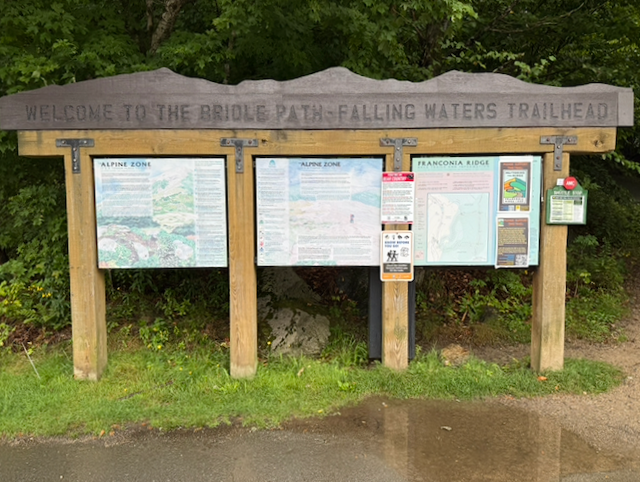
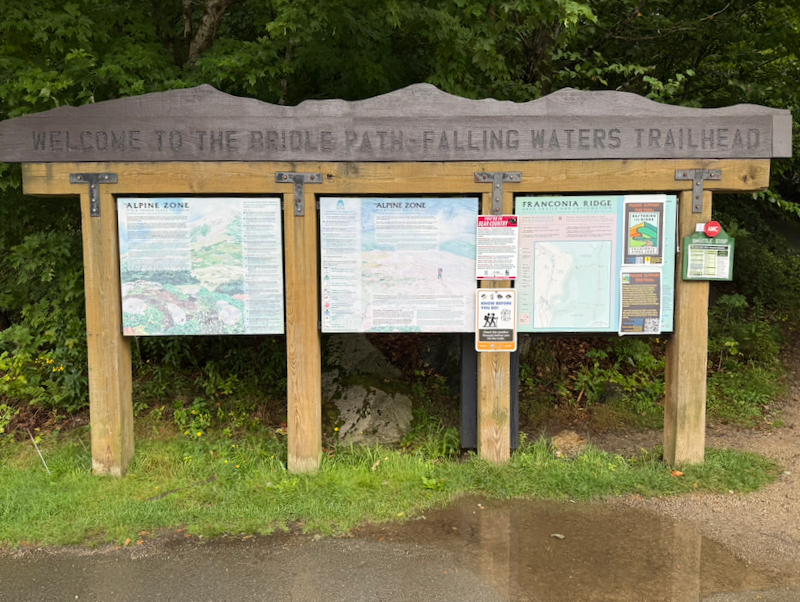
revise posts
Revise posts about trip to the White Mountains, adding photos and text
for day two.

diff --git a/_posts/2026-08-24-white-mountains-2026-day-two.md b/_posts/2026-08-24-white-mountains-2026-day-two.md
@@ -7,12 +7,157 @@ categories: [Camping]
 media_subpath: /assets/img/2026-08-24/
 ---
 
-Monday, August 24, 2026, was the second of six days of camping at Lafayette
-Place Campground in Franconia Notch State Park in the White Mountains of New
-Hampshire.
+Monday, August 24, 2026, was the second of six days of camping at
+[Lafayette Place Campground](https://www.nhstateparks.org/find-parks-trails/lafayette-place-campground-at-franconia-notch-stat)
+in
+[Franconia Notch State Park](https://www.nhstateparks.org/find-parks-trails/franconia-notch-state-park)
+in the
+[White Mountains](https://www.visitwhitemountains.com/)
+in New Hampshire. Today my plan was to join a short nature hike, ride the Cog
+Railroad to the top of Mt. Washington, and ride my bicycle on the recreation
+path.
 
 For the previous day of this six-day camping trip, see
 [White Mountains 2026, Day One]( {% link _posts/2026-08-23-white-mountains-2026-day-one.md %} ).
+
+## Lafayette Place Campground
+
+Noisy and inconsiderate neighbors in a nearby campsite woke me up at about
+midnight, but my noise-canceling headphones eliminated that problem. I had
+brought these and earplugs to deal with traffic noise from nearby I-93, but I
+discovered that the traffic noise was not bothering me as much as the noisy
+neighbors. Since I was awake, I crawled out of my tent to check the sky. I had a
+good view to the north and west, and I could see the bright stars of Cassiopeia,
+Cygnus, and Lyra (with Vega); but low moonlight in the southeast washed out the
+dimmer stars.
+
+After a good sleep, I got up at 6:00 a.m. and remembered to take a photo of my
+campsite. My Zipcar was parked to the left, out of the photo. The site was
+much larger than I needed.
+
+![My Campsite at Lafayette Place Campground](campsite.png){:width="800" height="600" }_My Campsite at Lafayette Place Campground_
+
+The day was bright and sunny, and I had a good view of Cannon Mountain to the
+northwest.
+
+![A View of Cannon Mountain from the Playground at Lafayette Place Campground](cannon_mountain.png){:width="800" height="600" }_A View of Cannon Mountain from the Playground at Lafayette Place Campground_
+
+## AMC Highland Center
+
+After cooking and eating a breakfast of muesli and granola with hot cocoa, I
+left at 7:40 a.m. to drive to
+[AMC Highland Center](https://www.outdoors.org/destinations/new-hampshire/highland-center/).
+I had to drive south on I-93 to reverse direction at U.S. Route 3 near Lincoln,
+then looping around from the north on Route 302, arriving very early at about 8:20
+a.m. before the nature hike scheduled at 9:00 a.m.
+
+<iframe src="https://ridewithgps.com/embeds?type=trip&id=411809374&sampleGraph=true&privacyCode=IQaTHP43dxFPYmIOzezNRCahR0WKK6l5" style="width: 1px; min-width: 100%; height: 700px; border: none;" scrolling="no"></iframe>
+
+While waiting, I explored the grounds of the AMC Highland Center.
+
+![AMC Highland Center](amc_highland_center.png){:width="800" height="601" }_AMC Highland Center_
+
+![Crawford Notch, with Saco Lake and Elephant Head in the Foreground](crawford_notch.png){:width="800" height="600" }_Crawford Notch, with Saco Lake and Elephant Head in the Foreground_
+
+## Elephant Head Nature Walk
+
+As for the nature walk, I turned out to be the only person who had registered.
+My guide was Mary, who was working full time at AMC during the summer before
+going to graduate school in the fall. We walked southeast on Crawford Notch Road
+from the Highland Center to the Webster-Jackson Trailhead just past Saco Lake.
+We followed that trail past the lake and branched right on the spur to Elephant
+Head.
+
+<iframe src="https://ridewithgps.com/embeds?type=trip&id=411914735&sampleGraph=true&privacyCode=wNCV2WJwB14p9zcRdCVy9OaUPGHfAell" style="width: 1px; min-width: 100%; height: 700px; border: none;" scrolling="no"></iframe>
+
+During our walk, Mary showed me four kinds of maple, including
+[sugar maple](https://en.wikipedia.org/wiki/Acer_saccharum) and
+[red maple](https://en.wikipedia.org/wiki/Acer_rubrum);
+[hobblebush](https://nhaudubon.org/plant-profile-hobblebush/), which grows
+close to the ground and trips unwary hikers. Mary's sharp eyes spotted a tiny
+frog next to the trail and many kinds of fungi. We had a close look at
+American beech trees infected with
+[beech bark disease](https://en.wikipedia.org/wiki/Beech_bark_disease).
+
+We climbed about 200 feet to the top of Elephant Head, where there was a good
+view north.
+
+![Saco Lake, AMC Highland Center, and Mt. Washington Hotel and Resort Viewed from Elephant Head](amc_highland_center_view_from_elephant_head.png){:width="800" height="601" }_Saco Lake, AMC Highland Center, and Mt. Washington Hotel and Resort Viewed from Elephant Head_
+
+## Cog Railroad to Mt. Washington Summit
+
+I drove north on U.S. Route 302 to Base Station Road, which took me to
+Marshfield Station of the [Cog Railroad](https://www.thecog.com/), which
+climbs to the top of Mt. Washington.
+
+<iframe src="https://ridewithgps.com/embeds?type=trip&id=411924170&sampleGraph=true&privacyCode=ejsrIUEQbNQbOEpbz5rYbtLzOmUYvnRr" style="width: 1px; min-width: 100%; height: 700px; border: none;" scrolling="no"></iframe>
+
+![The Cog Railroad's Marshfield Station with Mt. Washington in the Background](marshfield_station.png){:width="800" height="600" }_The Cog Railroad's Marshfield Station with Mt. Washington in the Background_
+
+![The Path of the Cog Railroad Up Mt. Washington](path_of_cog_railroad.png){:width="600" height="800" }_The Path of the Cog Railroad Up Mt. Washington_
+
+![Cog Railroad Diesel Engine](cog_railroad_diesel_engine.png){:width="800" height="501" }_Cog Railroad Diesel Engine_
+
+The Gloucester, Massachusetts, Student Band was present on a field trip, and
+they played their instruments at the bottom, during their train ride, and at the
+top of Mt. Washington (where, among other tunes, they played "Top of the
+World").
+
+![Gloucester, Massachusetts, Student Band](gloucester_student_band.png){:width="800" height="317" }_Gloucester, Massachusetts, Student Band_
+
+![Boarding the Carriages](boarding_the_carriages.png){:width="800" height="487" }_Boarding the Carriages_
+
+I rode the train that departed at noon. We climbed 3,500 feet in 2.8 miles, a
+steep climb with an average grade of 24%. The diesel engines are very powerful,
+and the cogs, of course, hold the engine on the track to prevent it from sliding
+down the rails.
+
+<iframe src="https://ridewithgps.com/embeds?type=trip&id=411928167&sampleGraph=true&privacyCode=4AmLjcoenkaEcBhFKutbfT78AAUm1a2D" style="width: 1px; min-width: 100%; height: 700px; border: none;" scrolling="no"></iframe>
+
+![Carriage Interior](carriage_interior.png){:width="800" height="600" }_Carriage Interior_
+
+Mt. Washington Observatory: https://mountwashington.org/
+
+Several photos. Schist with mica in the rocks at the top, not granite.
+The backs of the train seats are reversible so you always face in the direction the train is traveling. Back at the base station at about 2:00 p.m.
+
+I drove back to the campground. https://ridewithgps.com/routes/57071895
+
+## Franconia Notch Recreation Path
+
+In the late afternoon, I rode my bike north on the Franconia Notch Recreation
+Path.
+
+<iframe src="https://ridewithgps.com/embeds?type=trip&id=411812367&sampleGraph=true&privacyCode=YgqG2kkI0JcFFPIL8vks2JMWJryoA2o6" style="width: 1px; min-width: 100%; height: 700px; border: none;" scrolling="no"></iframe>
+
+As with riding the the southern section, which I had ridden the day before, the
+northern section was also very challenging with a few extremely steep hills and
+some rough surface. The lowest gear on my Trek Valencia is 18 gear inches, which
+was barely sufficient for me to climb the steepest hill.
+
+This description from a twelve-year-old video of riding the recreation path,
+[Franconia Notch Bike Trail Virtual Cycling Bike Training](https://www.youtube.com/watch?v=SlBRrSOKCX0),
+describes the trail succinctly and humorously:
+
+> Speed varies greatly due to the nature of the trail, basically the complete
+> opposite of a rail trail. I think if you go up a little further north there
+> might even be a vertical loop like in the old Hot Wheels tracks.
+
+I turned around when I reached an old auto bridge over a stream, with barriers
+blocking automobile drivers but not bicyclists or hikers. I lacked a good map
+and a cell phone signal, and I was disoriented and not sure where I was when I
+turned around. The bridge seemed like a possible remnant of old U.S. Route 3
+that had been replaced by the newer I-93 route.
+
+When I had access to a good map a couple of days later, I learned that the
+bridge crosses Lafayette Brook and that the Franconia Notch Recreation Trail
+continues for a few more miles northward. I also discovered later that there was
+a good cell phone signal at the bridge. And the parking lot near the bridge is
+accessed from an exit from northbound I-93 and is located at the trailhead of
+Franconia Snomo, a snowmobile trail.
+
+I returned to the campground by 5:30 p.m. I did a little walking around the
+campground, made dinner, cleaned up, and was in bed at dark, 8:00 p.m.
 
 For the third day of this six-day camping trip, see
 [White Mountains 2026, Day Three]( {% link _posts/2026-08-25-white-mountains-2026-day-three.md %} ).

diff --git a/_posts/2026-08-23-white-mountains-2026-day-one.md b/_posts/2026-08-23-white-mountains-2026-day-one.md
@@ -13,7 +13,11 @@ in
 [Franconia Notch State Park](https://www.nhstateparks.org/find-parks-trails/franconia-notch-state-park)
 in the
 [White Mountains](https://www.visitwhitemountains.com/)
-in New Hampshire. This was my first trip to the White Mountains after living in
+in New Hampshire.
+
+## Preparations
+
+This was my first trip to the White Mountains after living in
 New England for twenty-five years. My plan was to ride my bike, ride two trains,
 and do a little hiking.
 
@@ -23,11 +27,6 @@ My campsite cost me only $35 per night. For late August, campsites were sold
 out on Friday and Saturday nights, but availability was good for Sunday through
 Thursday nights.
 
-The drive was not complicated: Get on I-93 in Somerville, Massachusetts, and
-drive north to Lafayette Place Campground.
-
-<iframe src="https://ridewithgps.com/embeds?type=trip&id=411646657&sampleGraph=true&privacyCode=dDy6isJPYJ8ZXRkMr07PzC24qYV2C1wA" style="width: 1px; min-width: 100%; height: 700px; border: none;" scrolling="no"></iframe>
-
 I rented a Zipcar for the six days at a cost of about $700 (gas and insurance
 included). I folded down the rear seats and put my Trek Valencia hybrid
 bicycle in the back after removing the front rack and pedals. I should have
@@ -36,10 +35,16 @@ car.
 
 I packed my camping equipment that I use for bicycle touring, including my bear
 canister. Instead of freeze-dried meals, which are much lighter when hiking or
-touring, I brought cans of tuna fish, chicken, and Progresso soup to eat for
-dinners.
+touring, I brought cans of tuna fish and Progresso soup to eat for dinners.
 
-After packing the car, I left at noon. There was some heavy rain on the drive
+## The Drive
+
+The drive was not complicated: I got on I-93 in Somerville, Massachusetts, and
+drove north on the interstate to Lafayette Place Campground.
+
+<iframe src="https://ridewithgps.com/embeds?type=trip&id=411646657&sampleGraph=true&privacyCode=dDy6isJPYJ8ZXRkMr07PzC24qYV2C1wA" style="width: 1px; min-width: 100%; height: 700px; border: none;" scrolling="no"></iframe>
+
+I left at noon. There was some heavy rain on the drive
 north on I-93, making driving unsafe near Manchester and Concord, where many
 drivers did not reduce their speed even with poor visibility and a lot of
 water on the road. I stayed in the right hand lane as much as possible.
@@ -57,6 +62,10 @@ I had to drive past Lafayette Place Campground on I-93 because there is no
 exit when going northbound. I reversed direction a few miles north and drove
 back south to the exit. My total driving distance was about 146 miles.
 
+I arrived after three hours at 3:00 p.m.
+
+## Lafayette Place Campground
+
 I set up my campsite and walked around the campground.
 The campground was clean and well-maintained, and it was about two-thirds
 full. It is located close to I-93, so it suffers from traffic noise. There are
@@ -70,7 +79,7 @@ Franconia Notch.
 
 ![Tunnel Under I-93 at Lafayette Place Campground](tunnel_under_i-93.png){:width="800" height="600" }_Tunnel Under I-93 at Lafayette Place Campground_
 
-![Bridle Path and Falling Waters Trailhead](bridle_path_and_falling_waters_trailhead.png){:width="800" height="600" }_Bridle Path and Falling Waters Trailhead_
+![Bridle Path and Falling Waters Trailhead](bridle_path_and_falling_waters_trailhead.png){:width="800" height="602" }_Bridle Path and Falling Waters Trailhead_
 
 [AMC](https://outdoors.org) runs a
 [daily hiker shuttle](https://www.outdoors.org/shuttle/)
@@ -82,13 +91,18 @@ that stops at Lafayette Place Campground when going southbound through Franconia
 
 The only shortcoming is that I can't bring my bicycle on the shuttle.
 
+## Franconia Notch Recreation Path
+
 Late in the afternoon, I rode south on the Franconia Notch Recreation Path to
 Flume Gorge and back. Going south I lost about 600 feet of elevation, so it was
-a good climb coming back.
+a good climb coming back. The path is not a rail trail with an even and gentle
+grade. Some sections are unreasonably steep.
 
 <iframe src="https://ridewithgps.com/embeds?type=trip&id=411657516&sampleGraph=true&privacyCode=SBBcJeqgc3DeWAVF4vfFrVRiHdxqSHus" style="width: 1px; min-width: 100%; height: 700px; border: none;" scrolling="no"></iframe>
 
 ![Franconia Notch Recreation Path](franconia_notch_recreation_path.png){:width="800" height="600" }_Franconia Notch Recreation Path_
+
+## Evening Camping Activities
 
 After I ate dinner, there was heavy rain at 7:30 p.m. My tent is excellent, and
 I stayed dry. There is no Verizon cell service in campground. I used my Garmin
